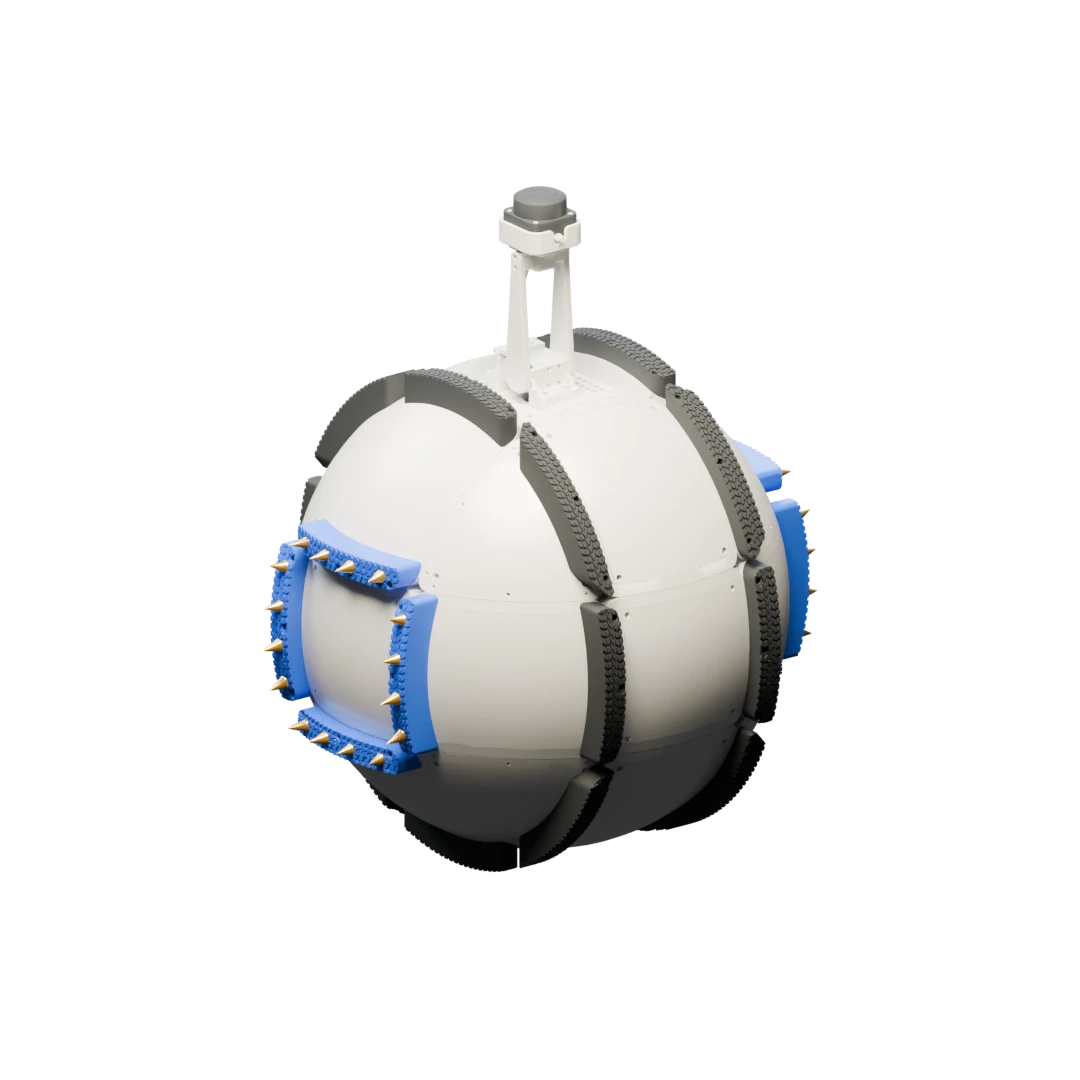
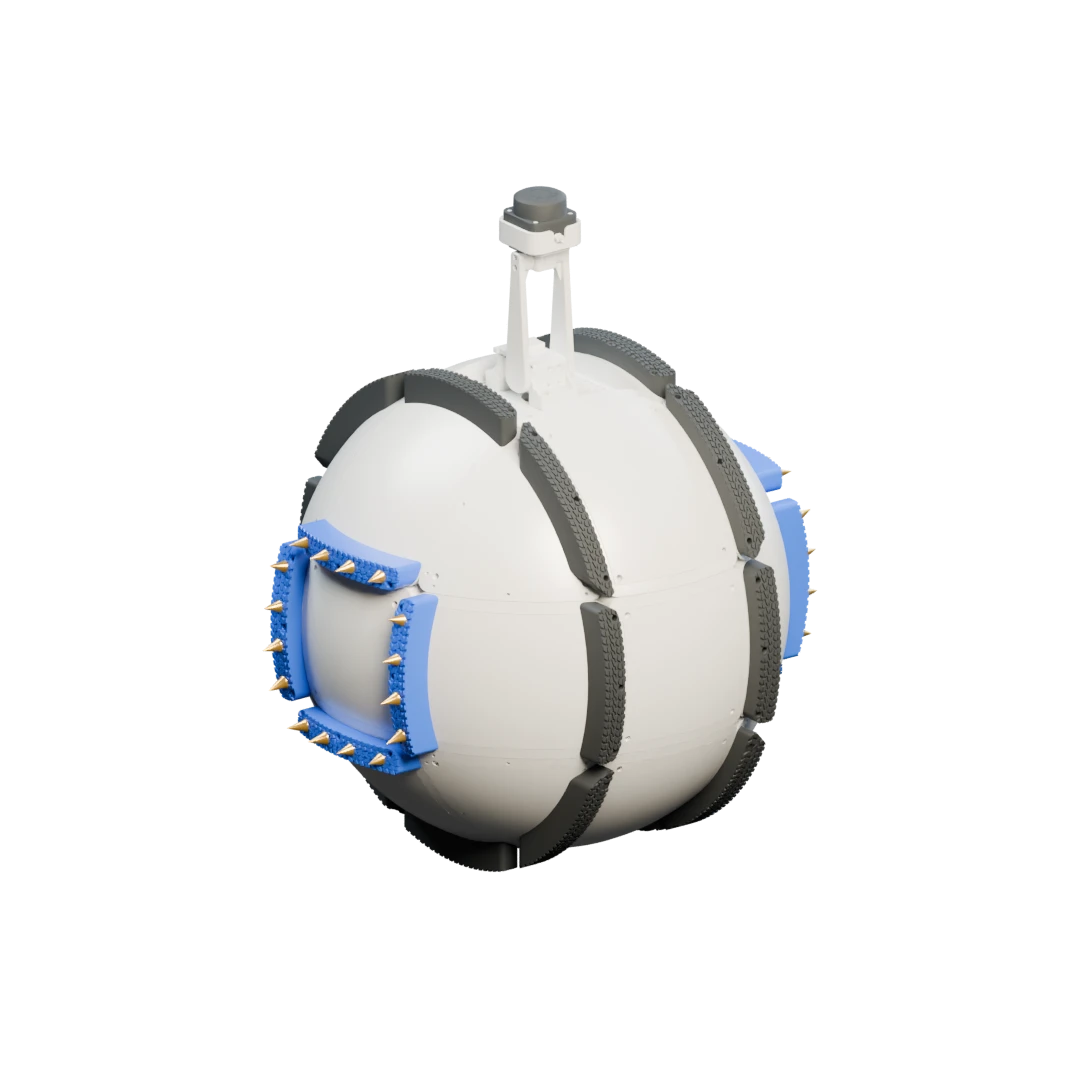
feat: image sequence

diff --git a/src/App.jsx b/src/App.jsx
@@ -1,43 +1,154 @@
-import React, { useRef } from 'react';
+import React, { useRef, useEffect, useState } from 'react';
 import { BrowserRouter as Router, Routes, Route } from 'react-router-dom';
 import Header from './components/Header';
 import HeroSection from './components/HeroSection';
 import MechanismSection from './components/MechanismSection';
-import DrivingShowcase from './components/DrivingShowcase'; // 추가
+import DrivingShowcase from './components/DrivingShowcase';
 import Footer from './components/Footer';
 import CountryRegionPage from './components/CountryRegionPage';
 
 import gsap from 'gsap';
+import { ScrollTrigger } from 'gsap/ScrollTrigger';
 import { useGSAP } from '@gsap/react';
 
+gsap.registerPlugin(ScrollTrigger);
+
 function MainPage() {
-  const robotRef = useRef(null);
+  const canvasRef = useRef(null);
+  const canvasWrapperRef = useRef(null);
+  const imagesRef = useRef([]);
+  const [imagesLoaded, setImagesLoaded] = useState(false);
+  
+  // 프레임 수 정의 (0부터 시작하므로 총 개수는 마지막 인덱스 + 1)
+  const driveFrames = 28;      // 0 ~ 27
+  const transformFrames = 135; // 0 ~ 134
+  const driveAltFrames = 36;   // 0 ~ 35
+  const totalFrames = driveFrames + transformFrames + driveAltFrames;
+
+  useEffect(() => {
+    const loadImages = async () => {
+      const promises = [];
+      
+      // 1. 변신 전 주행 (drive_00000.webp ~ 00027)
+      for (let i = 0; i < driveFrames; i++) {
+        const pad = String(i).padStart(5, '0');
+        const img = new Image();
+        img.src = `${import.meta.env.BASE_URL}assets/sequence/drive_${pad}.webp`;
+        promises.push(new Promise(res => { img.onload = () => res(img); img.onerror = () => res(img); }));
+      }
+      
+      // 2. 변신 과정 (transform_00000.webp ~ 00134)
+      for (let i = 0; i < transformFrames; i++) {
+        const pad = String(i).padStart(5, '0');
+        const img = new Image();
+        img.src = `${import.meta.env.BASE_URL}assets/sequence/transform_${pad}.webp`;
+        promises.push(new Promise(res => { img.onload = () => res(img); img.onerror = () => res(img); }));
+      }
+      
+      // 3. 변신 후 주행 (drivealt_00000.webp ~ 00035)
+      for (let i = 0; i < driveAltFrames; i++) {
+        const pad = String(i).padStart(5, '0');
+        const img = new Image();
+        img.src = `${import.meta.env.BASE_URL}assets/sequence/drivealt_${pad}.webp`;
+        promises.push(new Promise(res => { img.onload = () => res(img); img.onerror = () => res(img); }));
+      }
+      
+      const loaded = await Promise.all(promises);
+      imagesRef.current = loaded;
+      setImagesLoaded(true);
+      
+      if (loaded[0] && canvasRef.current) {
+        canvasRef.current.getContext('2d').drawImage(loaded[0], 0, 0, 1080, 1080);
+      }
+    };
+    loadImages();
+  }, []);
 
   useGSAP(() => {
-    const rotateXTo = gsap.quickTo(robotRef.current, "rotationX", { duration: 0.6, ease: "power3.out" });
-    const rotateYTo = gsap.quickTo(robotRef.current, "rotationY", { duration: 0.6, ease: "power3.out" });
+    // 틸트 로직 유지
+    const rotateXTo = gsap.quickTo(canvasWrapperRef.current, "rotationX", { duration: 0.6, ease: "power3.out" });
+    const rotateYTo = gsap.quickTo(canvasWrapperRef.current, "rotationY", { duration: 0.6, ease: "power3.out" });
 
     const handleMouseMove = (e) => {
       const xRatio = (e.clientX / window.innerWidth) * 2 - 1;
       const yRatio = (e.clientY / window.innerHeight) * 2 - 1;
-      rotateXTo(-yRatio * 12); 
-      rotateYTo(xRatio * 12);
+      rotateXTo(-yRatio * 2); 
+      rotateYTo(xRatio * 2);
     };
-
     window.addEventListener("mousemove", handleMouseMove);
+
+    if (imagesLoaded) {
+      const canvasObj = { frame: 0 };
+      const drawFrame = () => {
+        const ctx = canvasRef.current?.getContext('2d');
+        const img = imagesRef.current[Math.round(canvasObj.frame)];
+        if (ctx && img) {
+          ctx.clearRect(0, 0, 1080, 1080);
+          ctx.drawImage(img, 0, 0, 1080, 1080);
+        }
+      };
+
+      // 스크롤 거리 동기화 수학 (MechanismSection의 1600px 고정 기준)
+      const h = window.innerHeight;
+      const pinDistance = 1600; 
+      const text1Offset = pinDistance * 0.1; // 텍스트 1이 등장하는 스크롤 시점(10%)
+
+      // 3단계 애니메이션의 상대적 지속 거리 설정
+      const d1 = h + text1Offset;          // Hero 전체 + 텍스트1 등장 직전까지
+      const d2 = pinDistance - text1Offset; // 텍스트1 등장 후 Mechanism 고정 해제까지
+      const d3 = h;                        // 다음 섹션(DrivingShowcase)이 화면을 덮을 때까지
+
+      const masterTl = gsap.timeline({
+        scrollTrigger: {
+          trigger: document.body,
+          start: "top top",
+          end: () => "+=" + (h * 2 + pinDistance),
+          scrub: 0.5,
+        },
+        onUpdate: drawFrame
+      });
+
+      masterTl
+        // 1. 변신 전 주행
+        .to(canvasObj, { frame: driveFrames - 1, snap: "frame", ease: "none", duration: d1 })
+        // 2. 변신 과정
+        .to(canvasObj, { frame: driveFrames + transformFrames - 1, snap: "frame", ease: "none", duration: d2 })
+        // 3. 변신 후 주행
+        .to(canvasObj, { frame: totalFrames - 1, snap: "frame", ease: "none", duration: d3 });
+    }
+
     return () => window.removeEventListener("mousemove", handleMouseMove);
-  }, []);
+  }, { scope: document.body, dependencies: [imagesLoaded] });
 
   return (
     <>
       <main className="relative w-full">
-        <div className="fixed top-0 left-0 w-full h-screen flex items-center justify-center pointer-events-none z-0" style={{ perspective: '1000px' }}>
-          <div ref={robotRef} className="w-64 h-64 md:w-[450px] md:h-[450px] bg-gray-200 rounded-full flex items-center justify-center shadow-inner pointer-events-auto" style={{ transformStyle: 'preserve-3d' }}>
-            <span className="text-gray-500 font-medium text-center px-4">로봇 렌더링 이미지</span>
+        <div 
+          className="fixed top-0 left-0 w-full h-screen flex items-center justify-center pointer-events-none z-0"
+          style={{ perspective: '1000px' }}
+        >
+          <div 
+            ref={canvasWrapperRef}
+            className="w-[80vw] h-[80vw] md:w-[600px] md:h-[600px] flex items-center justify-center pointer-events-auto"
+            style={{ transformStyle: 'preserve-3d' }}
+          >
+            <canvas
+              ref={canvasRef}
+              width={1080}
+              height={1080}
+              className="w-full h-full object-contain drop-shadow-2xl"
+            />
           </div>
         </div>
-        <div className="relative z-10"><HeroSection /><MechanismSection /></div>
-        <div className="relative z-20 w-full bg-white"><DrivingShowcase /></div>
+
+        <div className="relative z-10">
+          <HeroSection />
+          <MechanismSection />
+        </div>
+
+        <div className="relative z-20 w-full bg-white">
+          <DrivingShowcase />
+        </div>
       </main>
       <Footer />
     </>
@@ -47,10 +158,6 @@ function MainPage() {
 export default function App() {
   return (
     <div className="min-h-screen bg-white text-black font-sans antialiased selection:bg-slate-200">
-      {/* 
-        GitHub Pages 배포 환경 호환성을 위해 vite.config.js의 base 경로를 
-        Router의 basename으로 주입합니다. 
-      */}
       <Router basename={import.meta.env.BASE_URL}>
         <Header />
         <Routes>

diff --git a/src/components/MechanismSection.jsx b/src/components/MechanismSection.jsx
@@ -14,11 +14,11 @@ export default function MechanismSection() {
   const text2Ref = useRef(null);
 
   useGSAP(() => {
-    // 1. 섹션 전체를 화면에 고정하는 메인 ScrollTrigger (1500px 동안 고정)
+    // 1. 섹션 전체를 화면에 고정하는 메인 ScrollTrigger (1600px 동안 고정)
     ScrollTrigger.create({
       trigger: sectionRef.current,
       start: "top top",
-      end: "+=1500", 
+      end: "+=1600", 
       pin: true,
       // 여기서는 scrub이나 animation을 넣지 않고 오직 '화면 고정' 역할만 합니다.
     });
